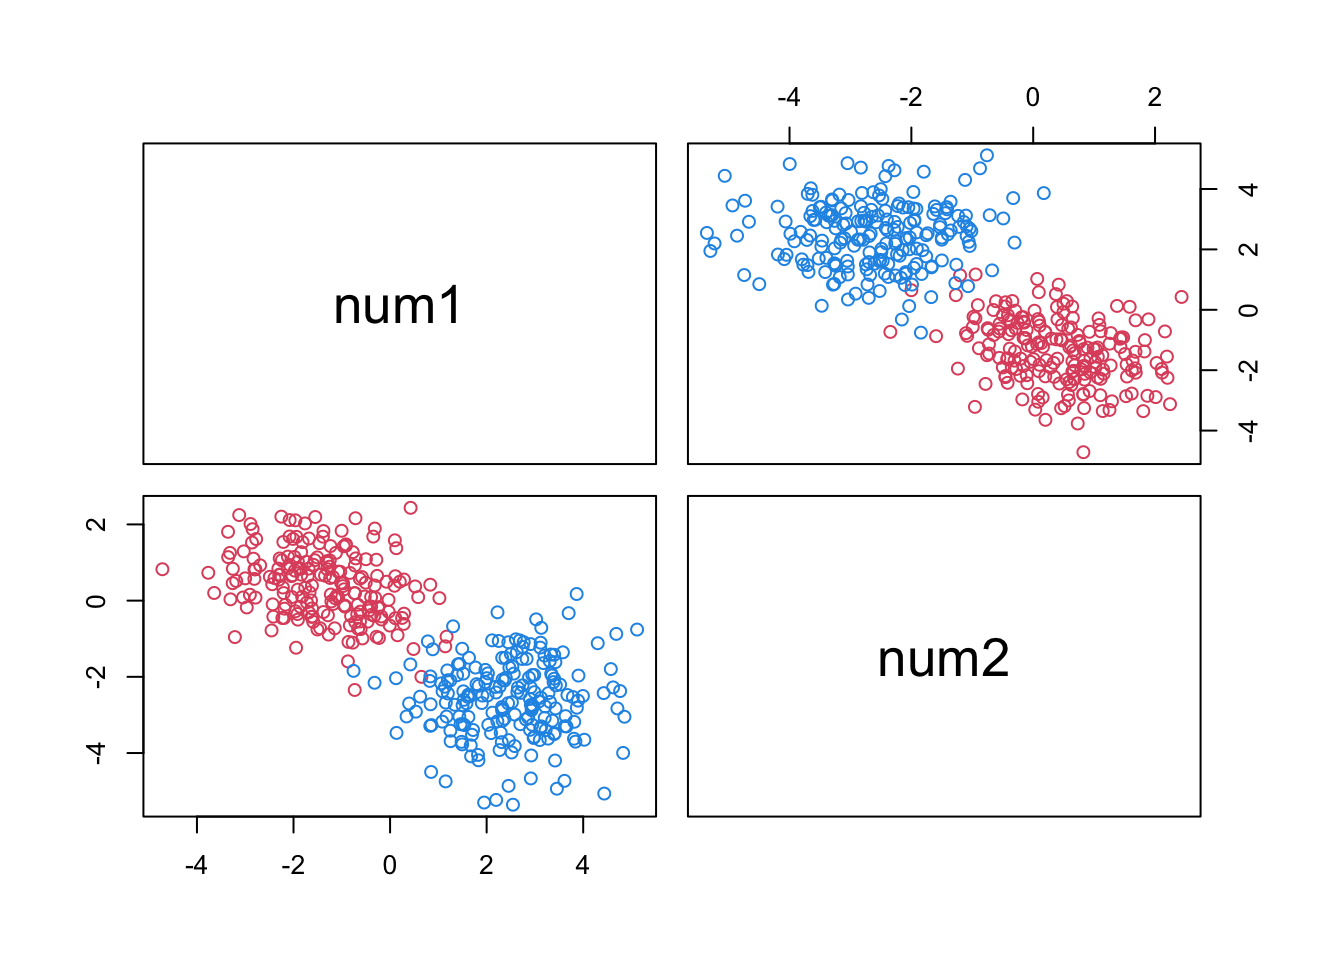
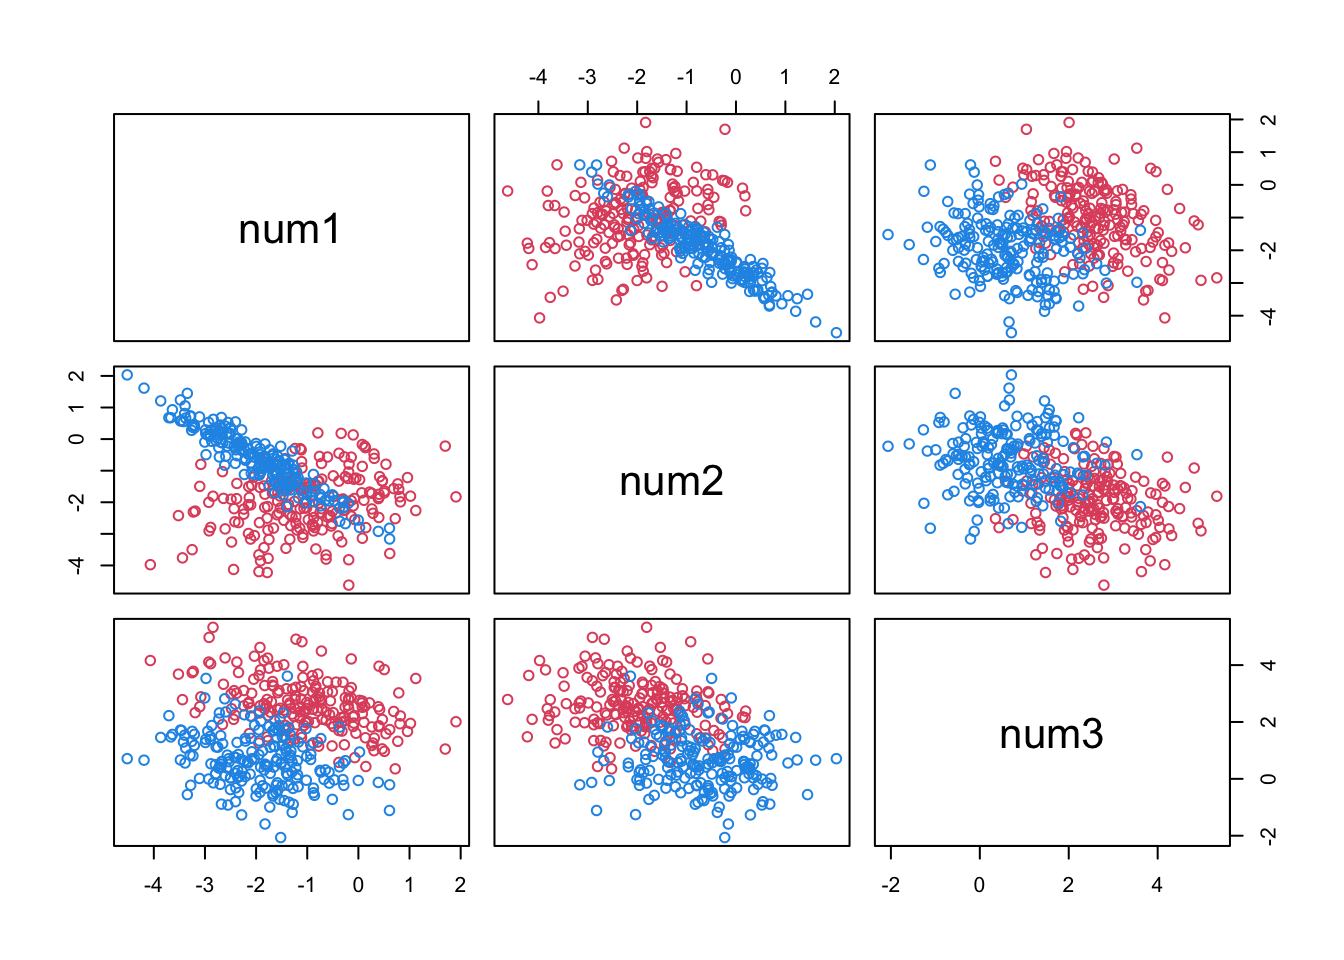
update

diff --git a/Clustering/01-Simulating-Clusters-with-Both-Continuous-and-Categorical-Variables.md b/Clustering/01-Simulating-Clusters-with-Both-Continuous-and-Categorical-Variables.md
@@ -16,34 +16,78 @@ library(clusterGeneration) # for function rcorrmatrix
 
     ## Loading required package: MASS
 
-Generate two clusters. To generate a Gaussian cluster, we need to
-specify the cluster mean vector and the cluster covariance matrix.
+Generate two clusters.
+
+To generate a Gaussian cluster, we need to specify the cluster mean
+vector and the cluster covariance matrix.
+
+The mean vectors are generated by random sampling from a continuous
+uniform distribution. The distance between the cluster means is a
+function of the interval length of the uniform distribution: a shorter
+interval leads to clusters that are closer to each other.
+
+The `rcorrmatrix` function from the package `clusterGeneration`
+generates random correlation matrices and is used to generate the
+covariance matrices for the clusters.
+
+The randomly generated mean vector and covariance matrix are then inputs
+to the `rmvnorm` function from the `mvtnorm` package which outputs the
+desired number of cluster datapoints.
 
 ``` r
-cluster_points <- c(200, 200) # 200 points per cluster
-num_vars <- 2 # how many continuous variables?
-num_min_max <- 3 # determines distance between cluster centers; clusters closer if lower
-
-# generate numerical variables
-set.seed(100)
-cl1 <- rmvnorm(cluster_points[1], 
-               mean = runif(num_vars, min = -num_min_max, max = num_min_max), 
-                            rcorrmatrix(num_vars)) 
-cl2 <- rmvnorm(cluster_points[2], 
-               mean = runif(num_vars, min = -num_min_max, max = num_min_max), 
-                            rcorrmatrix(num_vars))
-
-z_con <- as.data.frame(rbind(cl1, cl2))
-names(z_con) <- paste0('num', 1:num_vars) 
+gen_2_clusters <- function(cluster_points = c(200, 200), num_vars = 2, num_min_max = 3, seed = 100){
+  
+  # cluster_points: points per cluster
+  # num_vars: how many continuous variables?
+  # num_min_max:determines distance between cluster centers; clusters closer if smaller
+  
+  set.seed(seed)
+  
+  cl1 <- rmvnorm(cluster_points[1], 
+                 mean = runif(num_vars, min = -num_min_max, max = num_min_max), 
+                 sigma = rcorrmatrix(num_vars)) 
+  cl2 <- rmvnorm(cluster_points[2], 
+                 mean = runif(num_vars, min = -num_min_max, max = num_min_max), 
+                 sigma = rcorrmatrix(num_vars))
+  
+  clust_labels <- c(rep(2, cluster_points[1]), rep(4, cluster_points[2]))
+  
+  z_con <- as.data.frame(rbind(cl1, cl2))
+  names(z_con) <- paste0('num', 1:num_vars)
+  
+  return(list(data = z_con, labels = clust_labels))
+  
+}
 ```
 
 Let’s look at the clusters
 
 ``` r
-pairs(z_con, col = c(rep(2, cluster_points[1]), rep(4, cluster_points[2])))
+z <- gen_2_clusters(num_vars = 3, seed = 777)
+pairs(~ ., col = z$labels, data = z$data)
 ```
 
 <img src="01-Simulating-Clusters-with-Both-Continuous-and-Categorical-Variables_files/figure-gfm/unnamed-chunk-3-1.png" width="672" />
+
+## Categorical Variables
+
+Two clusters of categorical variables. Each categorical variable can
+take on 3 values drawn from discrete uniform distributions. For low
+overlap, categorical variable A takes on values 1, 2, 3, 4, 5 in Cluster
+1 and values 5, 6, 7, 8, 9 in Cluster 2. For medium overlap, categorical
+variable A takes on values 1, 2, 3, 4, 5 in Cluster 1 and values 4, 5,
+6, 7, 8 in Cluster 2. For high overlap, categorical variable A takes on
+values 1, 2, 3, 4, 5 in Cluster 1 and values 3, 4, 5, 6, 7 in Cluster 2.
+
+**why not one-hot encode?**
+
+``` r
+table(ceiling(runif(100000, min = 0, max = 5)))
+```
+
+    ## 
+    ##     1     2     3     4     5 
+    ## 19758 20261 19973 20189 19819
 
 ``` r
 R.Version()
